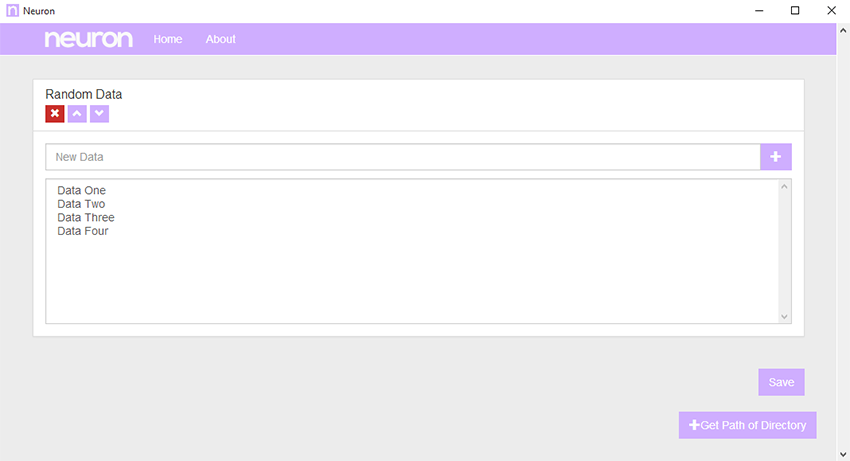
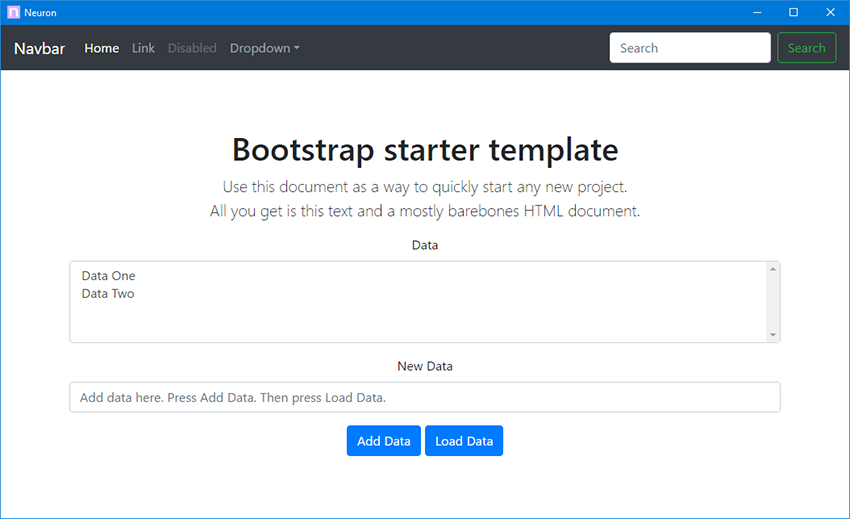
updated

diff --git a/neuron/templates/index.html b/neuron/templates/index.html
@@ -121,15 +121,12 @@
                   var response = ajaxRequest.responseText;
                   //$('#successAlert').show();
                   alert("Data Added");
-                  setTimeout(function() {
-                      alert("Failure?");
-                  }, 1500);
               }
           }
           ajaxRequest.open("POST", "/add_data/", true);
           ajaxRequest.setRequestHeader("Content-type", "application/x-www-form-urlencoded");
           ajaxRequest.send("new_value=" + newData);
-          addDataField.innerHTML = "";
+          addDataField.value = "";
       }
         
         function getData() {
@@ -147,11 +144,7 @@
                   var response = ajaxRequest.responseText;
                   response = JSON.parse(response);
                   loadData(response)
-
-                  alert("Data Added");
-                  setTimeout(function() {
-                      alert("Failure?");
-                  }, 1500);
+                  alert("Data Loaded");
               }
           }
           ajaxRequest.open("GET", "/get_data", true);

diff --git a/neuron/__main__.py b/neuron/__main__.py
@@ -17,7 +17,7 @@ import threading
 import wx
 from cefpython3 import cefpython as cef
 
-from neuron import start_gevent, APP_NAME
+from neuron import start_gevent, APP_NAME, get_root_path
 
 WindowUtils = cef.WindowUtils()
 
@@ -29,7 +29,7 @@ MAC = (platform.system() == "Darwin")
 # Configuration
 TITLE = APP_NAME
 WIDTH = 1068
-HEIGHT = 550
+HEIGHT = 650
 
 # Globals
 g_count_windows = 0
@@ -151,11 +151,15 @@ class MainFrame(wx.Frame):
             self.Show()
 
     def setup_icon(self):
-        icon_file = os.path.join(os.path.abspath(os.path.dirname(__file__)), "icon.ico")
-        # wx.IconFromBitmap is not available on Linux in wxPython 3.0/4.0
-        if os.path.exists(icon_file) and hasattr(wx, "IconFromBitmap"):
-            icon = wx.IconFromBitmap(wx.Bitmap(icon_file, wx.BITMAP_TYPE_PNG))
-            self.SetIcon(icon)
+        # icon_file = get_root_path('icon.ico')
+        # # wx.IconFromBitmap is not available on Linux in wxPython 3.0/4.0
+        # if os.path.exists(icon_file) and hasattr(wx, "IconFromBitmap"):
+        #     icon = wx.IconFromBitmap(wx.Bitmap(icon_file, wx.BITMAP_TYPE_PNG))
+        #     self.SetIcon(icon)
+
+        ib = wx.IconBundle()
+        ib.AddIcon(get_root_path('icon.ico'), wx.BITMAP_TYPE_ANY)
+        self.SetIcons(ib)
 
     def embed_browser(self):
         window_info = cef.WindowInfo()

diff --git a/README.md b/README.md
@@ -10,7 +10,6 @@ This project just combines different projects together with an installer.
 `CEF Python` - Portable browser  
 `Flask` - Local web server  
 `Gevent` - Launches Flask  
-`tkinter` - Folder selection  
 `Bootstrap` - Web UI  
 `xmlhttprequest` - Communication with Flask to update UI  
 
@@ -19,6 +18,7 @@ This project just combines different projects together with an installer.
 ## Get Started
 
 ### Clone
+
 Clone this repo
 
 ### Setup Environment
@@ -29,11 +29,8 @@ Clone this repo
 
 ### Test Application
 
-Start the application to make sure everything is working `python neuron_app.py`  
+Start the application to make sure everything is working `python __main__.py`  
 The application comes with a sample GUI with some interactions with the backend.  
-The data you see is loaded dynamically from the backend then javascript loads them into the form.  
-You can modify the data in the form and click `Save`. Then an AJAX call will be made to send it to the backend and
-printed in the terminal.  
 The included HTML and Javascript functions are a sample of how actions can be performed.
 
 ## Understanding Structure
@@ -51,9 +48,18 @@ This file is used to run `gevent` which handles running Flask and the incoming c
 
 ### app.py
 
-This is the Flask application.  This is were routing for http calls will be, creating the HTML, and the backend of  
+This is the Flask application.  This is where routing for http calls will be, creating the HTML, and the backend of 
 the application.  
 This is where main part of the application is handled. 
+
+### \_\_info\_\_.py
+
+Fields that contain your application name and related information.
+
+### \_\_init\_\_.py
+
+Configures paths for the application.  
+Contains functions for getting and creating paths for your application.  
 
 ### Templates directory
 
@@ -63,13 +69,21 @@ Contains the HTML files for the application
 
 Contains the resources for the HTML files. Fonts, images, javascript libraries etc.
 
-## Rebrand Project ***** TODO *****
+## Rebrand Project 
 
 ### Windowing and Icons
 
-Open `neuron.py` and go to the `PyGTKExample` class and in the `__init__` function you can modify 
-`self.mainWindow.set_title('Neuron')` to rename your application.  
-Then edit `icon.ico` and `icon_big.ico` to your application's icon.
+The top of \_\_main\_\_.py sets the size of the application.  
+`icon.ico` is the icon used by the window.  
+
+When creating an icon, you can bundle multiple sizes together to ensure it appears nicely at different sizes.  
+You can download [icobundle](http://telegraphics.com.au/sw/product/ICOBundle) to combine the icons into one file.  
+You can use this command. It also shows the different sizes you should create (eg icon24.ico is the 24x24 pixels size)  
+`.\icobundl.exe -o icon.ico icon16.ico icon24.ico icon32.ico icon40.ico icon48.ico icon64.ico icon96.ico icon128.ico icon256.ico`
+
+### Name, version etc
+
+Modify `__info__.py`
 
 ## Modifying the Application
 
@@ -85,17 +99,35 @@ Sample AJAX functions are included in the HTML to communicate with the backend F
 `Bootstrap` is used for the HTML.  This is not required, any HTML can be used.  
 Modifying the files in the `templates` and `static` directories will allow you change the GUI.  
 You call run `python app.py` and go to `localhost:5000` in your browser to work on your application without having 
-to execute `neuron.py`
+to execute `__main__.py`.  
+`templates/index.html` contains Javascript calls to the backend to retrieve data.
 
-## Create Windows Executable with PyInstaller
+## Create Windows Executable and Installer
 
-The following must be executed on a 32bit Windows machine with 32bit Python  
-Execute `pyinstaller neuron_installer.spec`  
-Two directories will be created, `dist` and `build`  
-`build` contains the temporary files used to create the executable  
-`dist` contains the files that need to be distributed  
-Manually copy the folders `static` and `templates` into `dist/Neuron`  
-You can modify `neuron_installer.spec` to match the name of the new application
+### PyInstaller and exe
+
+An exe for the application is created with PyInstaller.  
+`build/build.spec` is the PyInstaller spec which configures PyInstaller.  
+Extra files and directories to include (eg icon.ico) are set in the spec file.  
+To prevent the console window from appearing set `EXE(console=False)`.  
+
+### NSIS installer
+
+Install NSIS [http://nsis.sourceforge.net/Download](http://nsis.sourceforge.net/Download)  
+
+The installer is created with nsis.  
+`build/installer.nsi` is the template that will be automatically modified when creating a new build.  
+Modify `build/icon.ico` and `build/header.bmp` for your application.  
+Modify `build/license.txt` to be the contents of your application's license.  
+Modify the fields at the top of `build/build.py`  
+
+### Create new build
+
+`$ cd build/`  
+`$ python build.py`  
+
+This will run pyinstaller to create the exe, copy it into `build/dist/`, and then create the installer with nsis.  
+A file containing multiple hashes of the installer is also created.
 
 # References
 
@@ -103,6 +135,7 @@ You can modify `neuron_installer.spec` to match the name of the new application
 [Flask](http://flask.pocoo.org/) - Python microframework  
 [Bootstrap](http://getbootstrap.com/) - Web Front-End Framework  
 [PyInstaller](http://www.pyinstaller.org/) - Turn Python projects into executables  
+[NSIS](http://nsis.sourceforge.net/Main%5FPage) - Creates installer  
 
 # Screenshot
 
